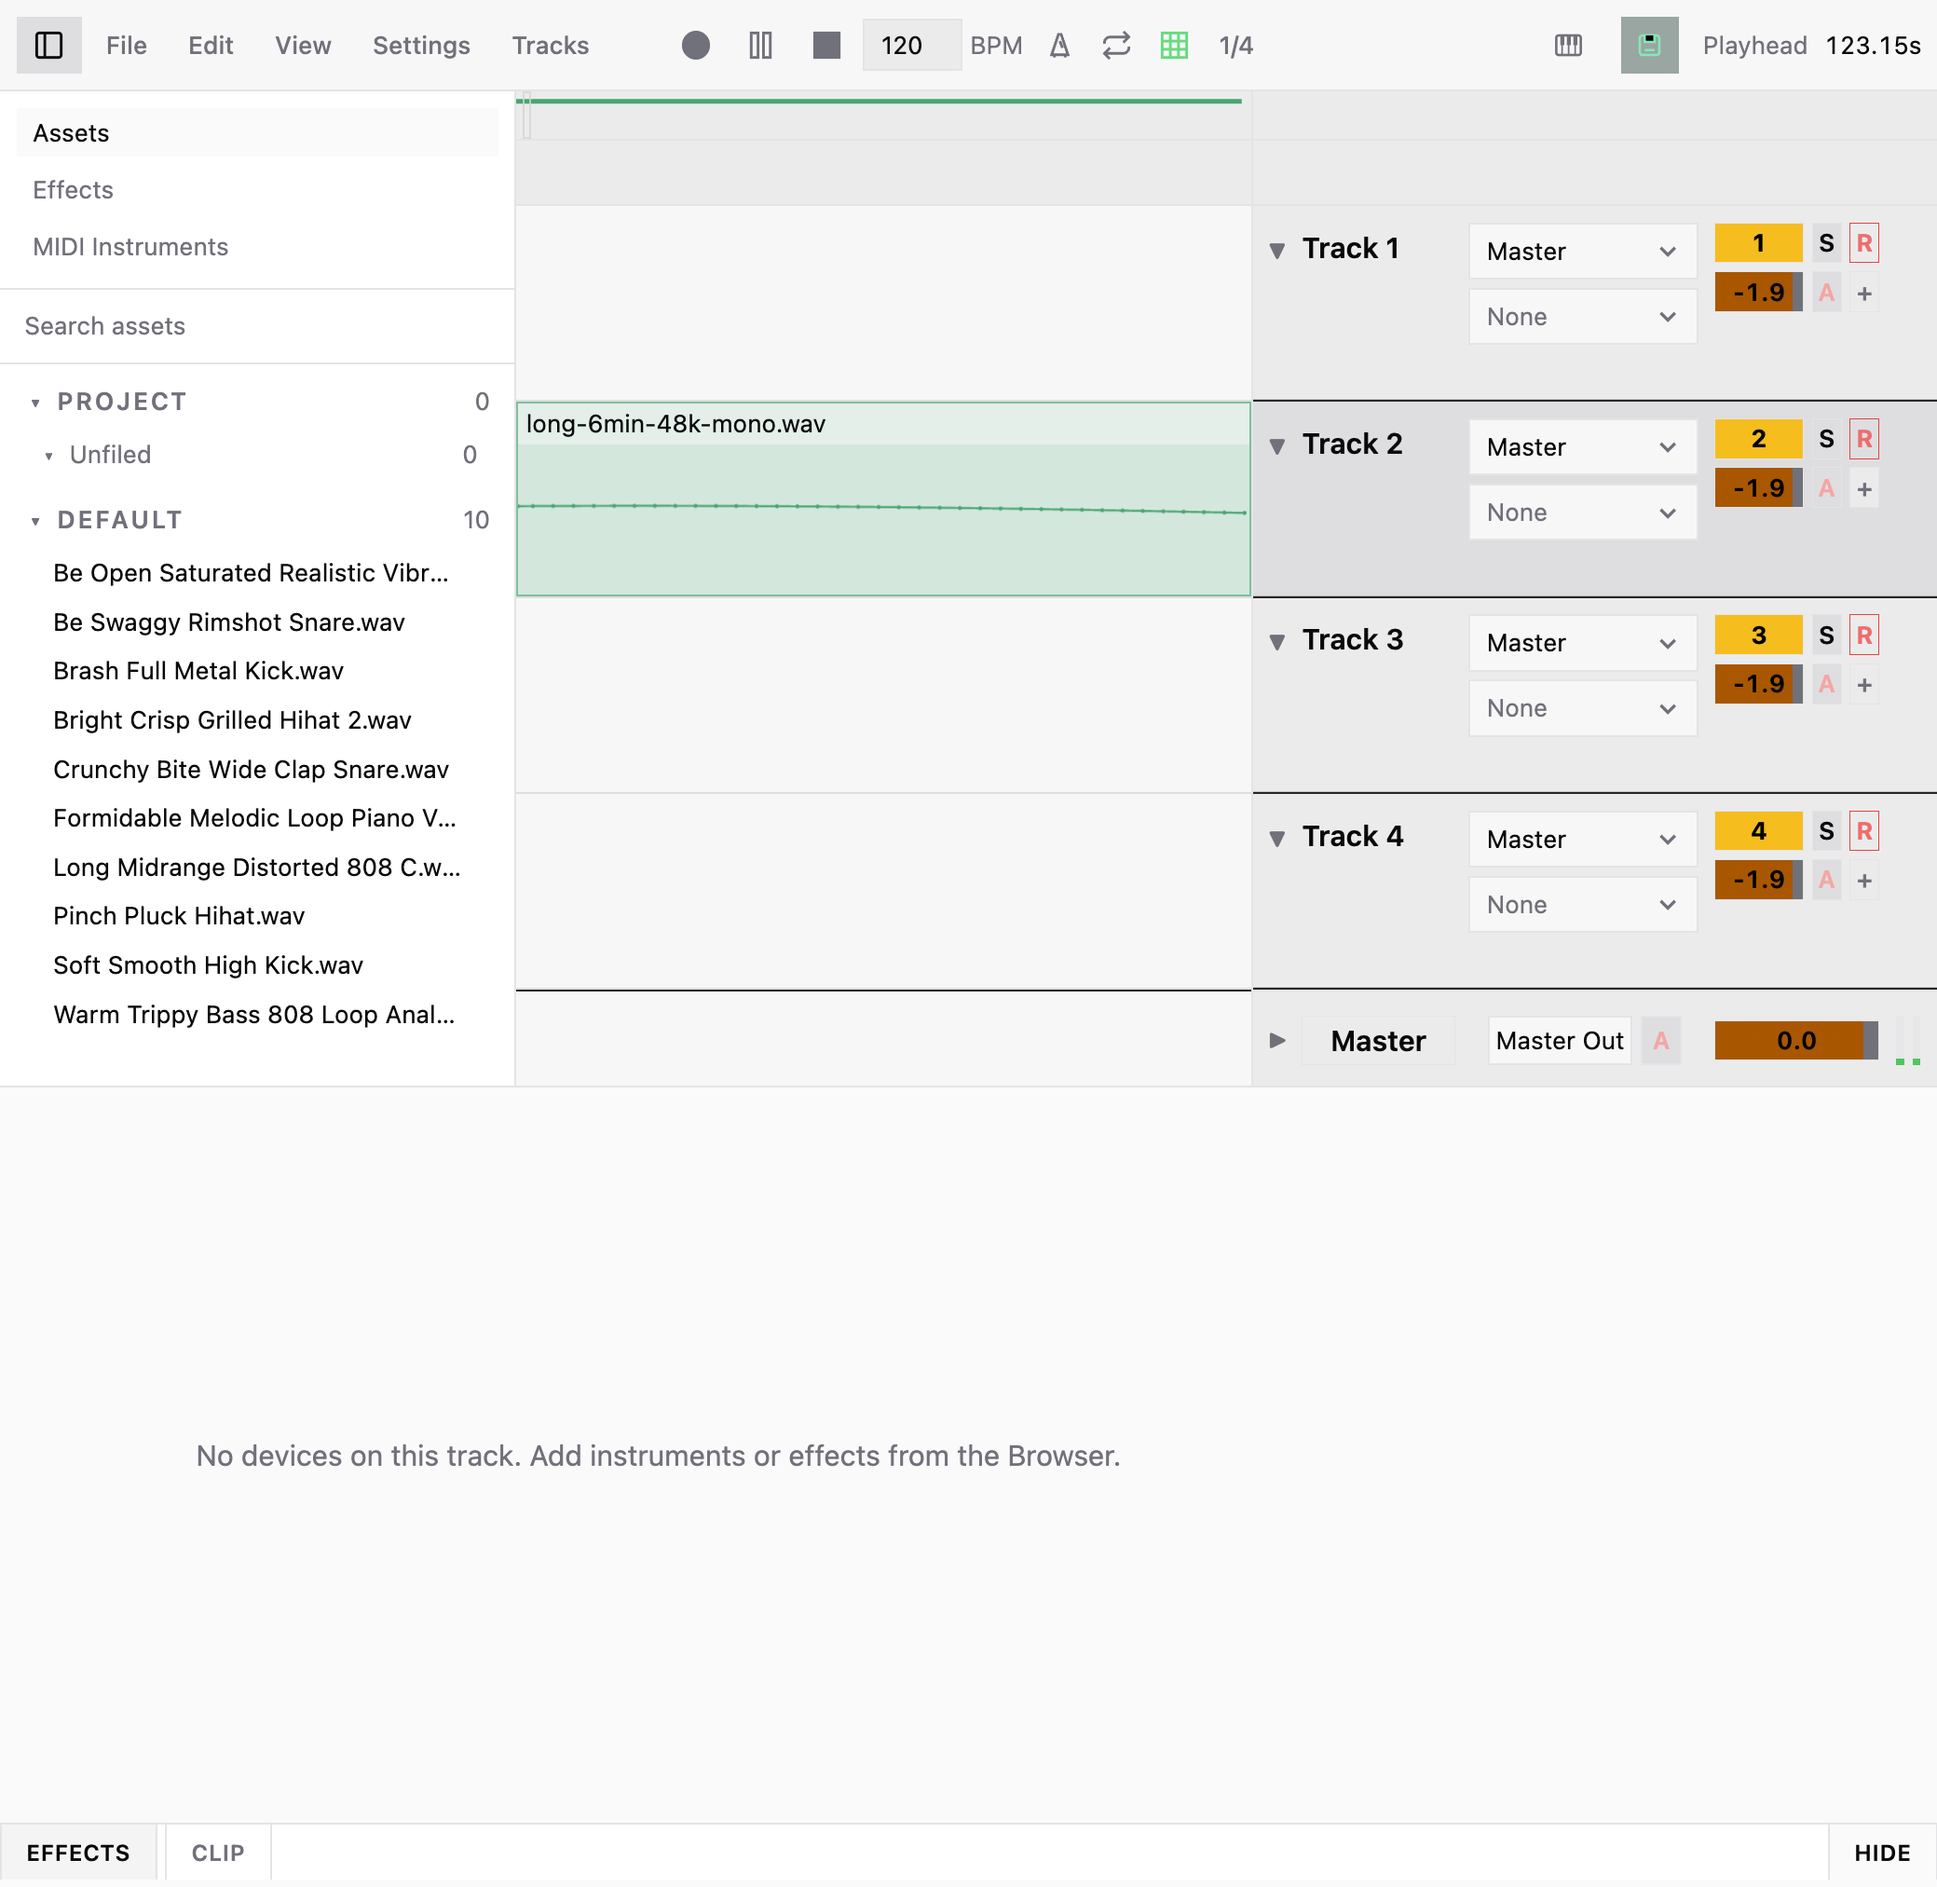
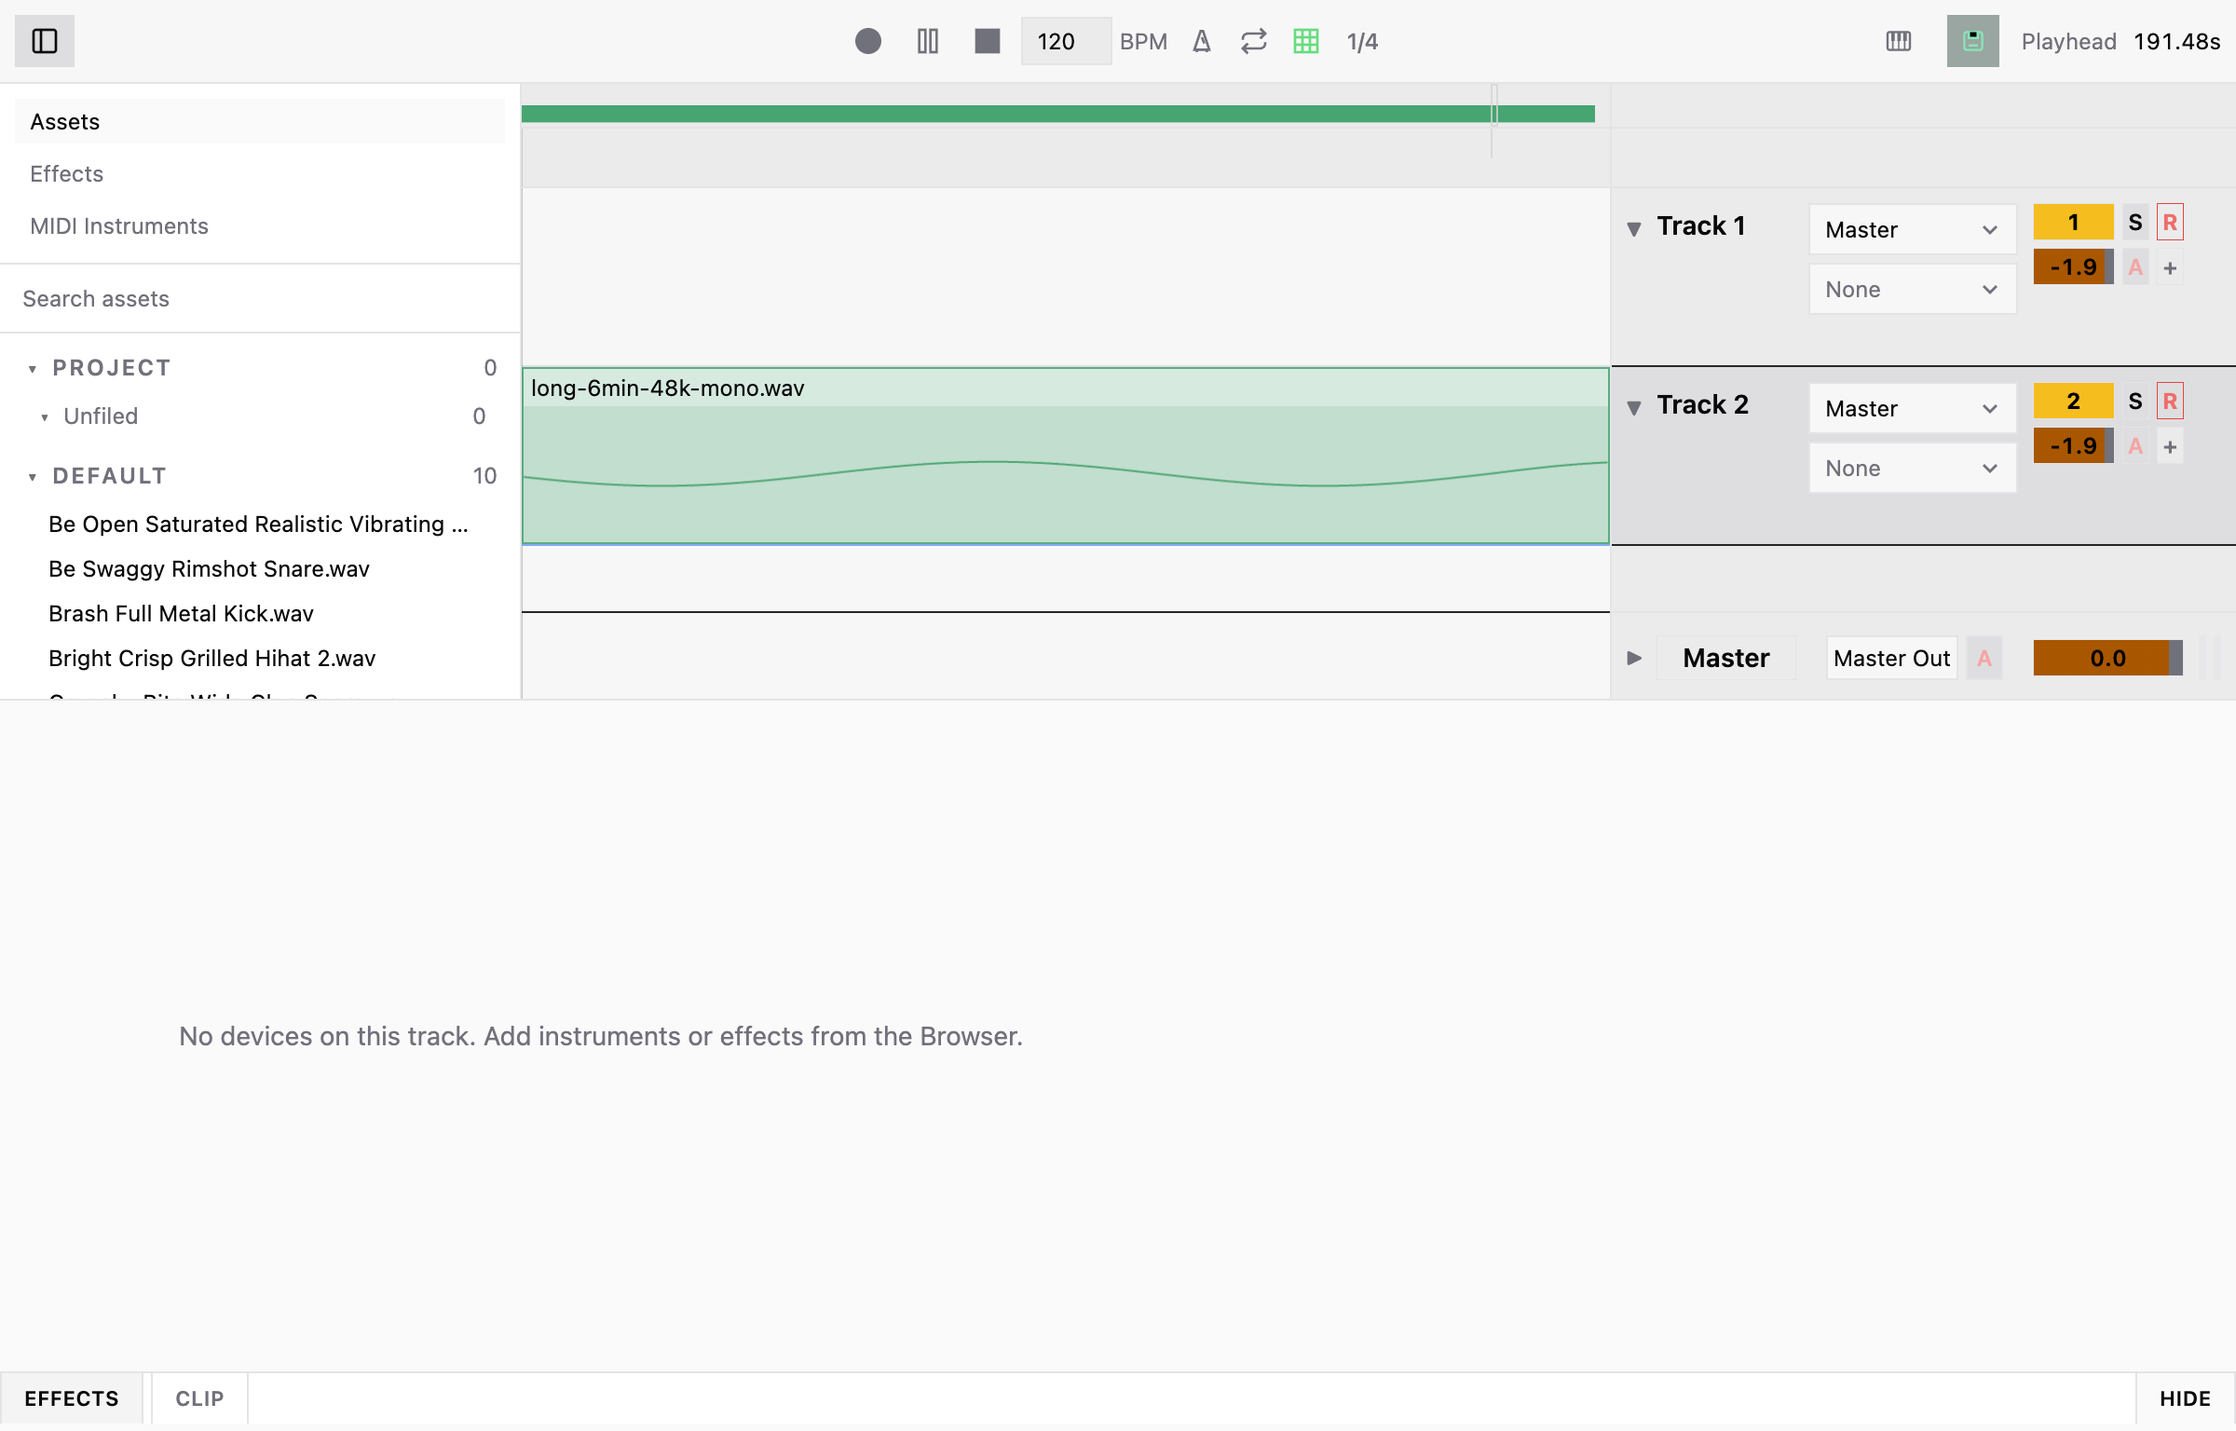
docs: record final runtime acceptance
EOF && git push origin feat/deep-timeline-zoom-performance

diff --git a/implementation-trackers/deep-timeline-zoom-performance.md b/implementation-trackers/deep-timeline-zoom-performance.md
@@ -149,10 +149,10 @@
   - Physical runway remained 200,336 px. Maximum observed canvas backing area was
     163,904 pixels.
 - Browser screenshot evidence is stored in
-  `acceptance-reports/deep-zoom-04bd307/`. The cached-peaks and PCM-envelope
-  transitions are visually distinct. The raw-PCM and sample-points captures are
-  visually indistinguishable, so this tracker does not claim four independently
-  proven visual LOD states.
+  `acceptance-reports/deep-zoom-04bd307/`. The raw-PCM capture was verified with
+  zero canvas point-arc calls and 1,726 line calls. The sample-points capture was
+  verified with 432 point-arc calls and 918 line calls. The two captures are now
+  visually distinct and independently prove the raw-line and point LODs.
 - The exact-source arm64 Electron package was rebuilt with the existing local
   Convex build configuration and accepted VST3 SDK. The first package attempt
   omitted `VITE_CONVEX_URL`, causing a startup `ZodError`; that artifact was
@@ -167,16 +167,26 @@
   attachment time and is not classified as an in-campaign frame interval.
 - Packaged process RSS during continuing playback was approximately 183 MiB for
   Electron main, 180 MiB for the renderer, and 14 MiB for the native host.
-- The public diagnostic snapshot continued to report the audio device as
-  `uninitialized` with no sample rate even while native transport and the
-  playhead advanced. Objective device/output PCM evidence is therefore not
-  proven.
+- Exact-head native diagnostics report artifact verification `verified`, ABI 4,
+  active graph revision 1, one installed asset, advancing callback/render epochs,
+  and zero rejected blocks. A bounded native meter capture reported stereo RMS
+  between approximately 0.122 and 0.126 over sounding content.
+- An isolated ten-cycle Electron zoom reproduction kept the same native-host PID,
+  advanced playback beyond 22 seconds, retained the 200,336 px runway, and ended
+  with 2,153 callbacks and zero rejected blocks. Earlier PID changes were caused
+  by overlapping timed-out automation evaluations and are not reproduced by the
+  bounded campaign.
 - Actual Safari 26.3 remains installed but Remote Automation is not enabled. Per
   the selected acceptance path, no Chromium result is labeled as Safari.
-- Remaining readiness blockers are objective native output/device initialization,
-  independently proven raw-PCM versus sample-point visual evidence, and actual
-  Safari bounce/recenter acceptance. The branch remains not ready and PR #54
-  must remain open and unmerged.
+- Actual Safari bounce/recenter acceptance remains unavailable: Safari 26.3 is
+  installed, the `AllowRemoteAutomation` preference is absent, SafariDriver
+  diagnostics do not complete, no repository-supported WebKit harness exists,
+  and the available desktop-control driver is not installed. No Chromium result
+  is labeled as Safari.
+- Browser and packaged Electron runtime gates are green. Safari remains an
+  explicitly unproven platform limitation, so the branch is not declared fully
+  ready under the original all-platform acceptance contract. PR #54 must remain
+  open and unmerged.
 
 ## Final security follow-up
 
